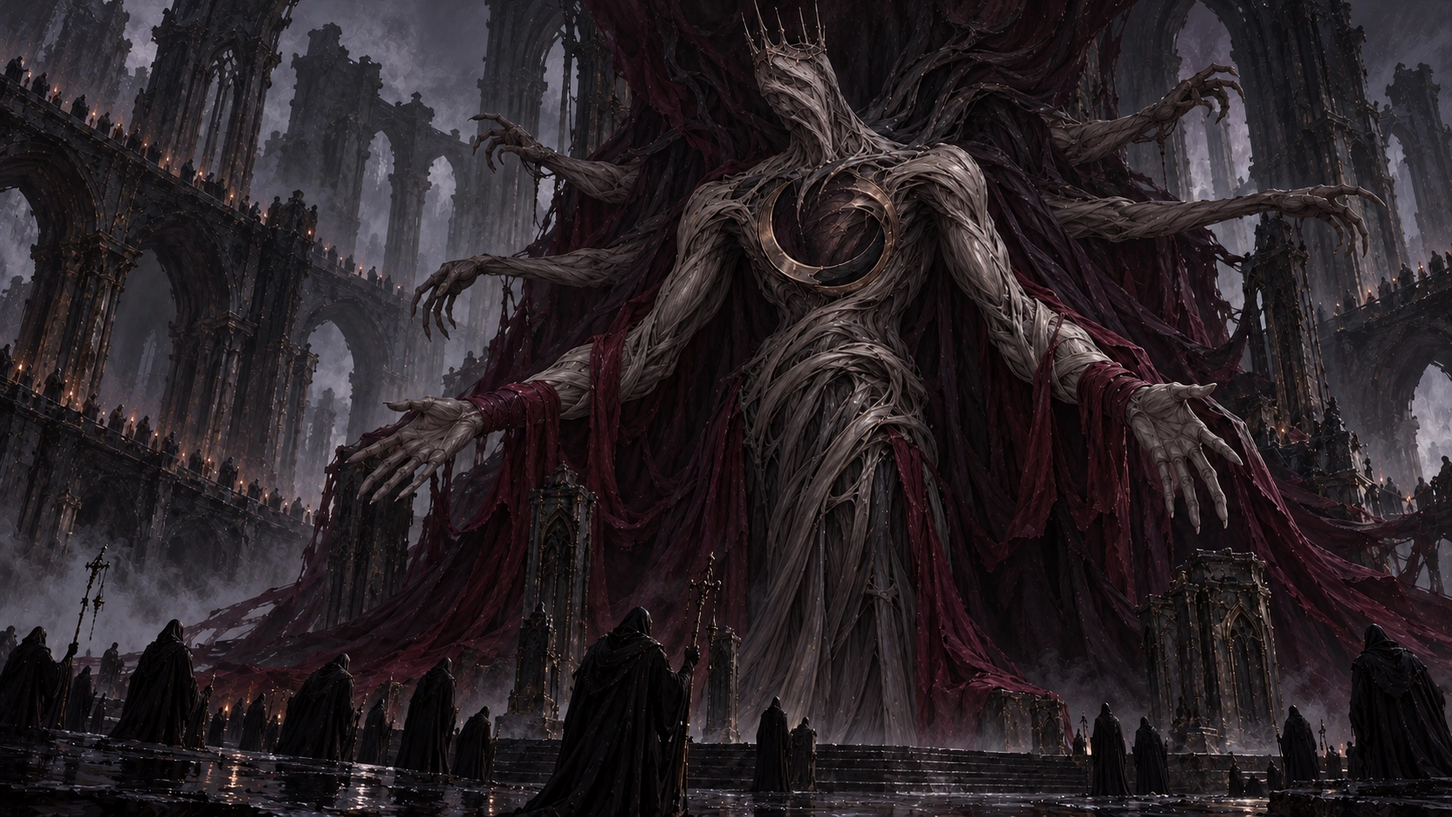
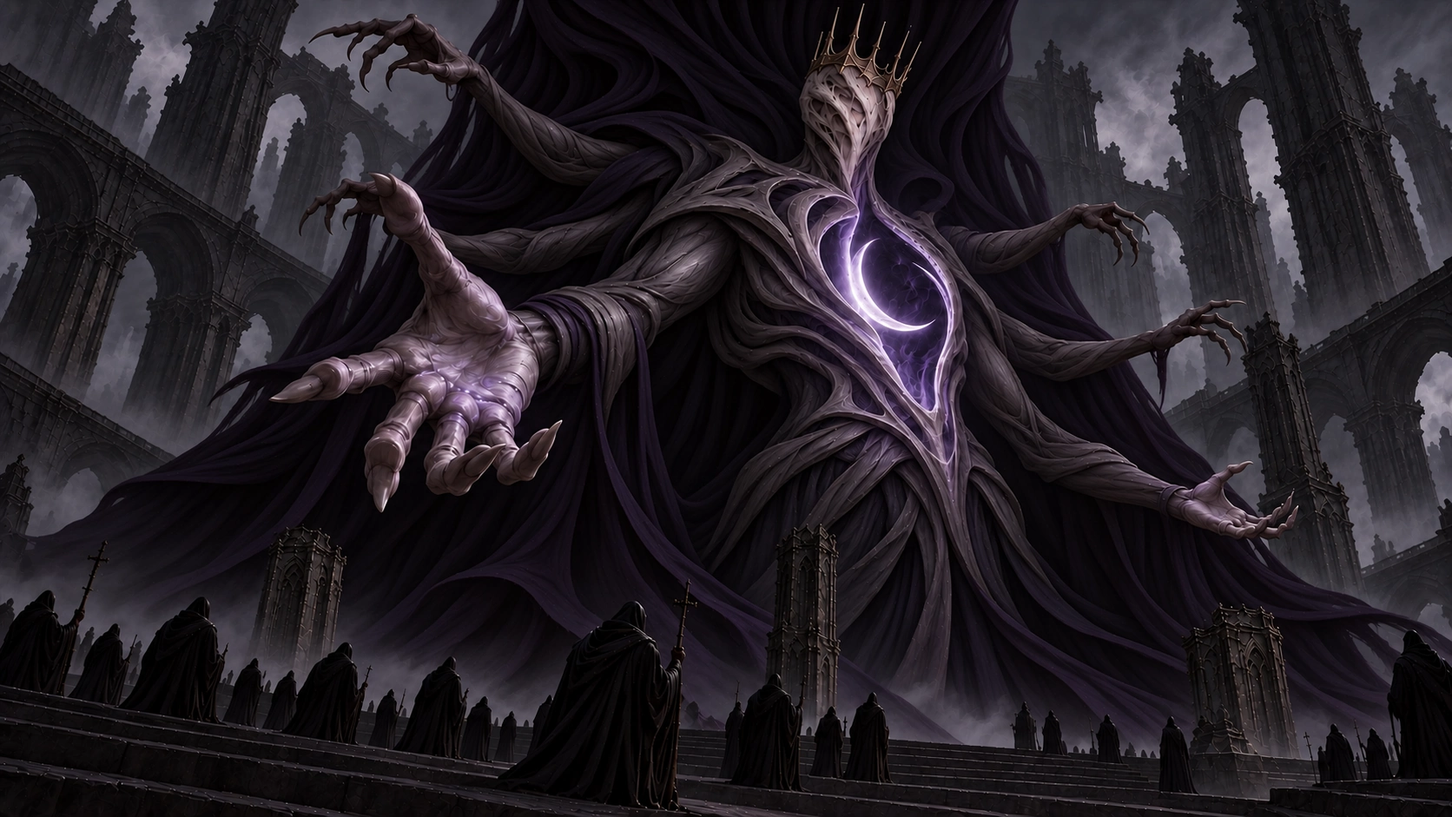
Add files via upload

diff --git a/book-data.js b/book-data.js
@@ -24,7 +24,14 @@ window.ARKVEIN_BOOK = {
     "choir": "Хор Раскола",
     "canon-army": "Армия Канона",
     "choir-army": "Армия Хора",
-    "finale": ""
+    "finale": "",
+    "limbrein-cradles": "Колыбели",
+    "limbrein-coven": "Ковен",
+    "limbrein-martensit": "Мартенсит",
+    "limbrein-letarn": "Летарн",
+    "limbrein-beings": "Существа ковена",
+    "limbrein-memoryways": "Пути памяти",
+    "limbrein-lastwatch": "Последний рубеж"
   },
   "pages": [
     {
@@ -617,7 +624,7 @@ window.ARKVEIN_BOOK = {
       "id": "limbrein-title",
       "title": "ЛИМБРЕЙН",
       "section": "",
-      "image": "limbrein-title-final.webp?v=arcwane-limbrein-concise-v6-20261003",
+      "image": "limbrein-title-final.webp?v=arcwane-limbrein-power-v10-20261004",
       "alt": "ЛИМБРЕЙН",
       "caption": "Раскрытый полумесяц над готическим остриём — знак Лимбрейна.",
       "type": "chapter",
@@ -636,7 +643,7 @@ window.ARKVEIN_BOOK = {
       "caption": "Когда-то здесь возвращали души в новые тела. Затем Колыбели начали угасать. Чтобы удержать оставшихся, ковены заключили пакт с Пустотой, а последний принц пожертвовал собой.",
       "type": "story",
       "chapter": "limbrein",
-      "part": "common",
+      "part": "limbrein-cradles",
       "focus": "center",
       "tone": 0.52,
       "text": [
@@ -653,7 +660,7 @@ window.ARKVEIN_BOOK = {
       "caption": "Вокруг мастерских выросли хранилища и города. Смерть больше не означала окончательной разлуки, но создать исчезнувшую душу заново было невозможно. Каждую существующую приходилось беречь.",
       "type": "story",
       "chapter": "limbrein",
-      "part": "common",
+      "part": "limbrein-cradles",
       "focus": "50%",
       "tone": 0.52,
       "text": [
@@ -670,7 +677,7 @@ window.ARKVEIN_BOOK = {
       "caption": "До завершения возвращения тело укрывали тяжёлой тканью. Рядом ждали свидетели прежней жизни. Их голоса и знакомые жесты помогали спящему вспомнить, кем он был.",
       "type": "story",
       "chapter": "limbrein",
-      "part": "common",
+      "part": "limbrein-cradles",
       "focus": "50%",
       "tone": 0.52,
       "text": [
@@ -687,7 +694,7 @@ window.ARKVEIN_BOOK = {
       "caption": "Если воспоминания возвращались не полностью, свидетель рассказывал о прошлом. Так возникло правило: никто не должен покидать Колыбель без того, кто помнит его жизнь.",
       "type": "story",
       "chapter": "limbrein",
-      "part": "common",
+      "part": "limbrein-cradles",
       "focus": "center",
       "tone": 0.52,
       "text": [
@@ -704,7 +711,7 @@ window.ARKVEIN_BOOK = {
       "caption": "Однажды хранитель прочёл знакомое имя и не вспомнил его владельца. Такие случаи повторились в других хранилищах. Вместе с памятью свидетелей начала слабеть возможность возвращения.",
       "type": "story",
       "chapter": "limbrein",
-      "part": "common",
+      "part": "limbrein-cradles",
       "focus": "50%",
       "tone": 0.52,
       "text": [
@@ -721,7 +728,7 @@ window.ARKVEIN_BOOK = {
       "caption": "За первым невозвращением последовали другие. Мастера не нашли причины. Королевство продолжало готовить сосуды, но теперь надеялось хотя бы сохранить спящих, пока выход не будет найден.",
       "type": "story",
       "chapter": "limbrein",
-      "part": "common",
+      "part": "limbrein-cradles",
       "focus": "center",
       "tone": 0.52,
       "text": [
@@ -738,7 +745,7 @@ window.ARKVEIN_BOOK = {
       "caption": "Это было исчезновение, с которым невозможно проститься. Хранители переносили уцелевших туда, где Колыбели ещё отвечали. Постепенно все дороги спасения начали вести к столице.",
       "type": "story",
       "chapter": "limbrein",
-      "part": "common",
+      "part": "limbrein-cradles",
       "focus": "50%",
       "tone": 0.52,
       "text": [
@@ -755,7 +762,7 @@ window.ARKVEIN_BOOK = {
       "caption": "В Летарне собрались оболочки самых разных очертаний. Но столичные сосуды тоже угасали. Тогда высшие хранители образовали тайные ковены и стали искать спасение за границей сна.",
       "type": "story",
       "chapter": "limbrein",
-      "part": "common",
+      "part": "limbrein-cradles",
       "focus": "center",
       "tone": 0.52,
       "text": [
@@ -772,7 +779,7 @@ window.ARKVEIN_BOOK = {
       "caption": "Во время одного опыта пустая Колыбель ответила из глубины Пустоты. Пришедшее обещало продлить сон. Ковены приняли этот ответ, ещё не понимая, какую цену потребуют за спасение.",
       "type": "story",
       "chapter": "limbrein",
-      "part": "common",
+      "part": "limbrein-coven",
       "focus": "50%",
       "tone": 0.52,
       "text": [
@@ -789,7 +796,7 @@ window.ARKVEIN_BOOK = {
       "caption": "Это имя дали ей сами лимбрейцы. Сущность могла удерживать угасающее сознание, но сохранённое постепенно утрачивало отдельную личность. Ради работающих Колыбелей ковены позволили ей войти в сеть.",
       "type": "story",
       "chapter": "limbrein",
-      "part": "common",
+      "part": "limbrein-coven",
       "focus": "50%",
       "tone": 0.52,
       "text": [
@@ -806,7 +813,7 @@ window.ARKVEIN_BOOK = {
       "caption": "Когда цену поняли, связь уже не разорвали. Отказ означал исчезновение тех, кого она удерживала. Ковены закрепили пакт клятвами: спасая спящих, лимбрейцы медленно опустошали себя.",
       "type": "story",
       "chapter": "limbrein",
-      "part": "common",
+      "part": "limbrein-coven",
       "focus": "center",
       "tone": 0.52,
       "text": [
@@ -823,7 +830,7 @@ window.ARKVEIN_BOOK = {
       "caption": "Ковены сохраняли место за изменившимися: иначе королевство лишилось бы собственных спасителей. Но разрозненные пакты распадались. Чтобы удержать их вместе, всей сети требовался один живой якорь.",
       "type": "story",
       "chapter": "limbrein",
-      "part": "common",
+      "part": "limbrein-coven",
       "focus": "center",
       "tone": 0.52,
       "text": [
@@ -840,7 +847,7 @@ window.ARKVEIN_BOOK = {
       "caption": "Ковены предложили связать общую сеть его телом. Принц согласился. Он приказал собрать спящих вокруг главной Колыбели и вошёл под свод, откуда не мог вернуться прежним.",
       "type": "story",
       "chapter": "limbrein",
-      "part": "common",
+      "part": "limbrein-martensit",
       "focus": "center",
       "tone": 0.52,
       "text": [
@@ -857,7 +864,7 @@ window.ARKVEIN_BOOK = {
       "caption": "Принц просил сохранить спящих, а не себя. Колыбель ответила, связав хранилища через его живое тело. Вместе с угасанием отступила и память о тех, ради кого он принял обряд.",
       "type": "story",
       "chapter": "limbrein",
-      "part": "common",
+      "part": "limbrein-martensit",
       "focus": "center",
       "tone": 0.52,
       "text": [
@@ -874,7 +881,7 @@ window.ARKVEIN_BOOK = {
       "caption": "После обряда осколок главного сосуда врос в оболочку принца. Он стал зримым узлом связи, который невозможно снять. Теперь Мартенсит принадлежит Колыбели так же, как она зависит от него.",
       "type": "story",
       "chapter": "limbrein",
-      "part": "common",
+      "part": "limbrein-martensit",
       "focus": "50%",
       "tone": 0.52,
       "text": [
@@ -891,7 +898,7 @@ window.ARKVEIN_BOOK = {
       "caption": "Он забыл близких, сохранив только долг. Каждая смерть рядом отдаёт последнюю искру общей сети. Когда малая оболочка перестаёт вмещать присутствие Пустоты, начинается Бодрствующий Сон.",
       "type": "story",
       "chapter": "limbrein",
-      "part": "common",
+      "part": "limbrein-martensit",
       "focus": "center",
       "tone": 0.52,
       "text": [
@@ -903,17 +910,17 @@ window.ARKVEIN_BOOK = {
       "id": "limbrein-awakening",
       "title": "Мартенсит,\nБодрствующий Сон",
       "section": "Пробуждение",
-      "image": "limbrein-awakening-final.webp?v=arcwane-limbrein-concise-v6-20261003",
+      "image": "limbrein-awakening-final.webp?v=arcwane-limbrein-power-v10-20261004",
       "alt": "Мартенсит, Бодрствующий Сон",
-      "caption": "В Бодрствующем Сне сеть получает больше силы, а якорь теряет очередную часть себя. Когда напряжение спадает, он возвращается к меньшему облику. Пока это возможно, королевство продолжает существовать.",
+      "caption": "Сеть получает больше силы, а якорь теряет очередную часть себя. Когда напряжение спадает, он возвращается к прежней оболочке. Пока это возможно, королевство продолжает существовать.",
       "type": "story",
       "chapter": "limbrein",
-      "part": "common",
+      "part": "limbrein-martensit",
       "focus": "center",
       "tone": 0.52,
       "text": [
-        "В Бодрствующем Сне тело и завеса Матери Забвения раскрываются в единого исполина. Его руки удерживают связи ковена; осколок остаётся в груди, лицо скрыто живой тканью.",
-        "В Бодрствующем Сне сеть получает больше силы, а якорь теряет очередную часть себя. Когда напряжение спадает, он возвращается к меньшему облику. Пока это возможно, королевство продолжает существовать."
+        "В Бодрствующем Сне тело Мартенсита становится тёмной оболочкой Матери Забвения. Грудь раскрывается подобно Колыбели; полумесяц внутри излучает холодный свет. Венец и лицо без глаз ещё напоминают о принце, а шесть рук удерживают связи ковена.",
+        "Сеть получает больше силы, а якорь теряет очередную часть себя. Когда напряжение спадает, он возвращается к прежней оболочке. Пока это возможно, королевство продолжает существовать."
       ]
     },
     {
@@ -925,7 +932,7 @@ window.ARKVEIN_BOOK = {
       "caption": "Ковены управляют городом через клятвы и знаки допуска. Здесь ценят способность удерживать спящих. Когда старые дороги ушли под воду, за оставшимися начали отправлять Колыбели-корабли.",
       "type": "story",
       "chapter": "limbrein",
-      "part": "common",
+      "part": "limbrein-letarn",
       "focus": "center",
       "tone": 0.52,
       "text": [
@@ -942,7 +949,7 @@ window.ARKVEIN_BOOK = {
       "caption": "Перед отправлением свидетели собирают печати и готовят перенос. На борту говорят жестами, прислушиваясь к спящим. Каждый корабль несёт часть королевства, которой больше некуда возвращаться.",
       "type": "story",
       "chapter": "limbrein",
-      "part": "common",
+      "part": "limbrein-letarn",
       "focus": "55%",
       "tone": 0.52,
       "text": [
@@ -959,7 +966,7 @@ window.ARKVEIN_BOOK = {
       "caption": "Многие Сомнары забыли собственные имена, но помнят порядок ухода. Когда ответ слабеет, они продолжают перенос, пока ковен ищет силу, способную продлить сон и завершить дорогу.",
       "type": "story",
       "chapter": "limbrein",
-      "part": "common",
+      "part": "limbrein-beings",
       "focus": "50%",
       "tone": 0.52,
       "text": [
@@ -976,7 +983,7 @@ window.ARKVEIN_BOOK = {
       "caption": "Собранное поддерживает чужой сон. На полях сражений Искроловы обращают смерть врагов в силу Колыбелей. Каждая отсрочка спасает спящего, но глубже связывает королевство с пактом.",
       "type": "story",
       "chapter": "limbrein",
-      "part": "common",
+      "part": "limbrein-beings",
       "focus": "50%",
       "tone": 0.52,
       "text": [
@@ -993,7 +1000,7 @@ window.ARKVEIN_BOOK = {
       "caption": "Когда хранилище оставляют, знак передают шествию. Страж следует за ним, перенося службу на новую дорогу. Последняя клятва удерживает его там, где прежняя личность уже исчезла.",
       "type": "story",
       "chapter": "limbrein",
-      "part": "common",
+      "part": "limbrein-beings",
       "focus": "50%",
       "tone": 0.52,
       "text": [
@@ -1010,7 +1017,7 @@ window.ARKVEIN_BOOK = {
       "caption": "Звон не будит спящих — он собирает тех, кто ещё способен действовать. По сигналу ковен прекращает обряды, собирает печати и готовит Колыбели к уходу из опасного хранилища.",
       "type": "story",
       "chapter": "limbrein",
-      "part": "common",
+      "part": "limbrein-beings",
       "focus": "50%",
       "tone": 0.52,
       "text": [
@@ -1027,7 +1034,7 @@ window.ARKVEIN_BOOK = {
       "caption": "Готовая завеса сохраняет связь во время переноса. Повреждённую ткань не выбрасывают, пока не выяснят, чью память она удерживала. За пределами стен путь для шествия ищет Мнемор.",
       "type": "story",
       "chapter": "limbrein",
-      "part": "common",
+      "part": "limbrein-beings",
       "focus": "50%",
       "tone": 0.52,
       "text": [
@@ -1044,7 +1051,7 @@ window.ARKVEIN_BOOK = {
       "caption": "Остановить его может только отсутствие ответа. Иногда он возвращается с пустой тканью — хранилище уже угасло. Если Мнемор продолжает путь, за ним отправляется шествие со спящими.",
       "type": "story",
       "chapter": "limbrein",
-      "part": "common",
+      "part": "limbrein-beings",
       "focus": "50%",
       "tone": 0.52,
       "text": [
@@ -1061,7 +1068,7 @@ window.ARKVEIN_BOOK = {
       "caption": "На остановках поручения повторяют друг другу, чтобы забывший не оборвал общий путь. Дорога ведёт к столичной сети, но право войти ещё предстоит получить у её границы.",
       "type": "story",
       "chapter": "limbrein",
-      "part": "common",
+      "part": "limbrein-memoryways",
       "focus": "50%",
       "tone": 0.52,
       "text": [
@@ -1078,7 +1085,7 @@ window.ARKVEIN_BOOK = {
       "caption": "Допуск зависит не от происхождения прибывших, но милосердны не все ковены. Одни принимают каждого, другие — лишь способных служить. Принятых передают кораблям: дальше улицы скрыты водой.",
       "type": "story",
       "chapter": "limbrein",
-      "part": "common",
+      "part": "limbrein-memoryways",
       "focus": "50%",
       "tone": 0.52,
       "text": [
@@ -1095,7 +1102,7 @@ window.ARKVEIN_BOOK = {
       "caption": "Если пристань исчезла, Кормчий направляет судно к другой. Корабли забывших последнее поручение годами проходят между пустыми берегами. Сохранившие его приводят спящих к Летарну.",
       "type": "story",
       "chapter": "limbrein",
-      "part": "common",
+      "part": "limbrein-memoryways",
       "focus": "50%",
       "tone": 0.52,
       "text": [
@@ -1112,7 +1119,7 @@ window.ARKVEIN_BOOK = {
       "caption": "После согласия ковена Сомнары переносят сосуды под своды. Рядом кладут печати и повторяют свидетельства. Если дорога стёрла слова, связь пытаются восстановить знакомыми движениями рук.",
       "type": "story",
       "chapter": "limbrein",
-      "part": "common",
+      "part": "limbrein-memoryways",
       "focus": "50%",
       "tone": 0.52,
       "text": [
@@ -1129,7 +1136,7 @@ window.ARKVEIN_BOOK = {
       "caption": "Ответ Колыбели не возвращает утраченную жизнь хранителя и требует очередной платы. Над печатями собирается ковен: каждый спасённый перенос заставляет решать, сколько себя ещё можно отдать.",
       "type": "story",
       "chapter": "limbrein",
-      "part": "common",
+      "part": "limbrein-memoryways",
       "focus": "center",
       "tone": 0.52,
       "text": [
@@ -1146,7 +1153,7 @@ window.ARKVEIN_BOOK = {
       "caption": "Жертва Мартенсита сохраняет возможность выбора, но не отменяет его последствий. Перед новой клятвой проверяют свидетельства: ошибка может сохранить пустой сосуд ценой памяти живого хранителя.",
       "type": "story",
       "chapter": "limbrein",
-      "part": "common",
+      "part": "limbrein-memoryways",
       "focus": "center",
       "tone": 0.52,
       "text": [
@@ -1163,7 +1170,7 @@ window.ARKVEIN_BOOK = {
       "caption": "Теперь многим печатям невозможно подобрать имя. Их всё равно оставляют рядом с сосудами. Переплавить такой знак означало бы окончательно отказаться от последнего свидетельства о спящем.",
       "type": "story",
       "chapter": "limbrein",
-      "part": "common",
+      "part": "limbrein-memoryways",
       "focus": "50%",
       "tone": 0.52,
       "text": [
@@ -1180,7 +1187,7 @@ window.ARKVEIN_BOOK = {
       "caption": "Эти стражи сильны не погоней, а стойкостью. Обрушение может разрушить часть тела, но Опорник остаётся, пока спящие не спасены. Его неподвижность даёт другим возможность уйти.",
       "type": "story",
       "chapter": "limbrein",
-      "part": "common",
+      "part": "limbrein-lastwatch",
       "focus": "50%",
       "tone": 0.52,
       "text": [
@@ -1197,7 +1204,7 @@ window.ARKVEIN_BOOK = {
       "caption": "Искроловы направляют последние искры павших врагов в сеть. Их смерть продлевает сон, но бой истощает собственных хранителей. После сражения уцелевшие принимают поручения тех, кто уже не вернётся.",
       "type": "story",
       "chapter": "limbrein",
-      "part": "common",
+      "part": "limbrein-lastwatch",
       "focus": "50%",
       "tone": 0.52,
       "text": [
@@ -1214,7 +1221,7 @@ window.ARKVEIN_BOOK = {
       "caption": "К ним приходят, когда погиб последний свидетель. Имядержец может указать владельца знака или повторить забытый жест. Создать исчезнувшую память заново не способен даже он.",
       "type": "story",
       "chapter": "limbrein",
-      "part": "common",
+      "part": "limbrein-lastwatch",
       "focus": "50%",
       "tone": 0.52,
       "text": [
@@ -1231,7 +1238,7 @@ window.ARKVEIN_BOOK = {
       "caption": "Покои сохранили как свидетельство жизни, отданной общей сети. Королевство продолжилось, а прежний Мартенсит — нет. В каждом споре об отсрочке ковены помнят цену его выбора.",
       "type": "story",
       "chapter": "limbrein",
-      "part": "common",
+      "part": "limbrein-lastwatch",
       "focus": "50%",
       "tone": 0.52,
       "text": [
@@ -1248,7 +1255,7 @@ window.ARKVEIN_BOOK = {
       "caption": "Лимбрейн не победил конец: он платит памятью за отсрочку. Пока Мартенсит удерживает Последнюю Колыбель, новые шествия выходят в туман, исполняя долг, переживший тех, кто его принял.",
       "type": "story",
       "chapter": "limbrein",
-      "part": "common",
+      "part": "limbrein-lastwatch",
       "focus": "center",
       "tone": 0.52,
       "text": [

diff --git a/index.html b/index.html
@@ -6,7 +6,11 @@
 <meta name="description" content="Арквейн — иллюстрированная книга мира: земли, народы, фракции, герои и предания.">
 <title>ARCWANE — Artbook 2026</title>
 <link rel="icon" href="world-mark-v5.png" type="image/png"><link rel="stylesheet" href="style.css?v=arcwane-limbrein-title-20261003">
-<script src="book-data.js?v=arcwane-limbrein-concise-v6-20261003" defer></script><script src="page-fold.js?v=arcwane-v71" defer></script><script src="reader.js?v=arcwane-v71" defer></script>
+<script src="book-data.js?v=arcwane-limbrein-contents-v11-20261004" defer></script><script src="page-fold.js?v=arcwane-v71" defer></script><script src="reader.js?v=arcwane-v71" defer></script>
+<style>.book:not(.closed) .chapter-page[data-index="37"] .page-copy{top:78%!important;bottom:auto!important;padding:0 20px!important;background:none!important}</style>
+<style>.book:not(.closed) .chapter-page[data-index="37"]:before{background:linear-gradient(0deg,#03090bee 0%,#03090b60 18%,#03090b00 30%)!important}
+@media(max-width:700px) and (orientation:portrait){.book:not(.closed) .chapter-page[data-index="37"] .page-art{height:min(100%,170vw)!important;object-position:50% 0%!important}}
+</style>
 </head>
 <body>
 <div class="app">
